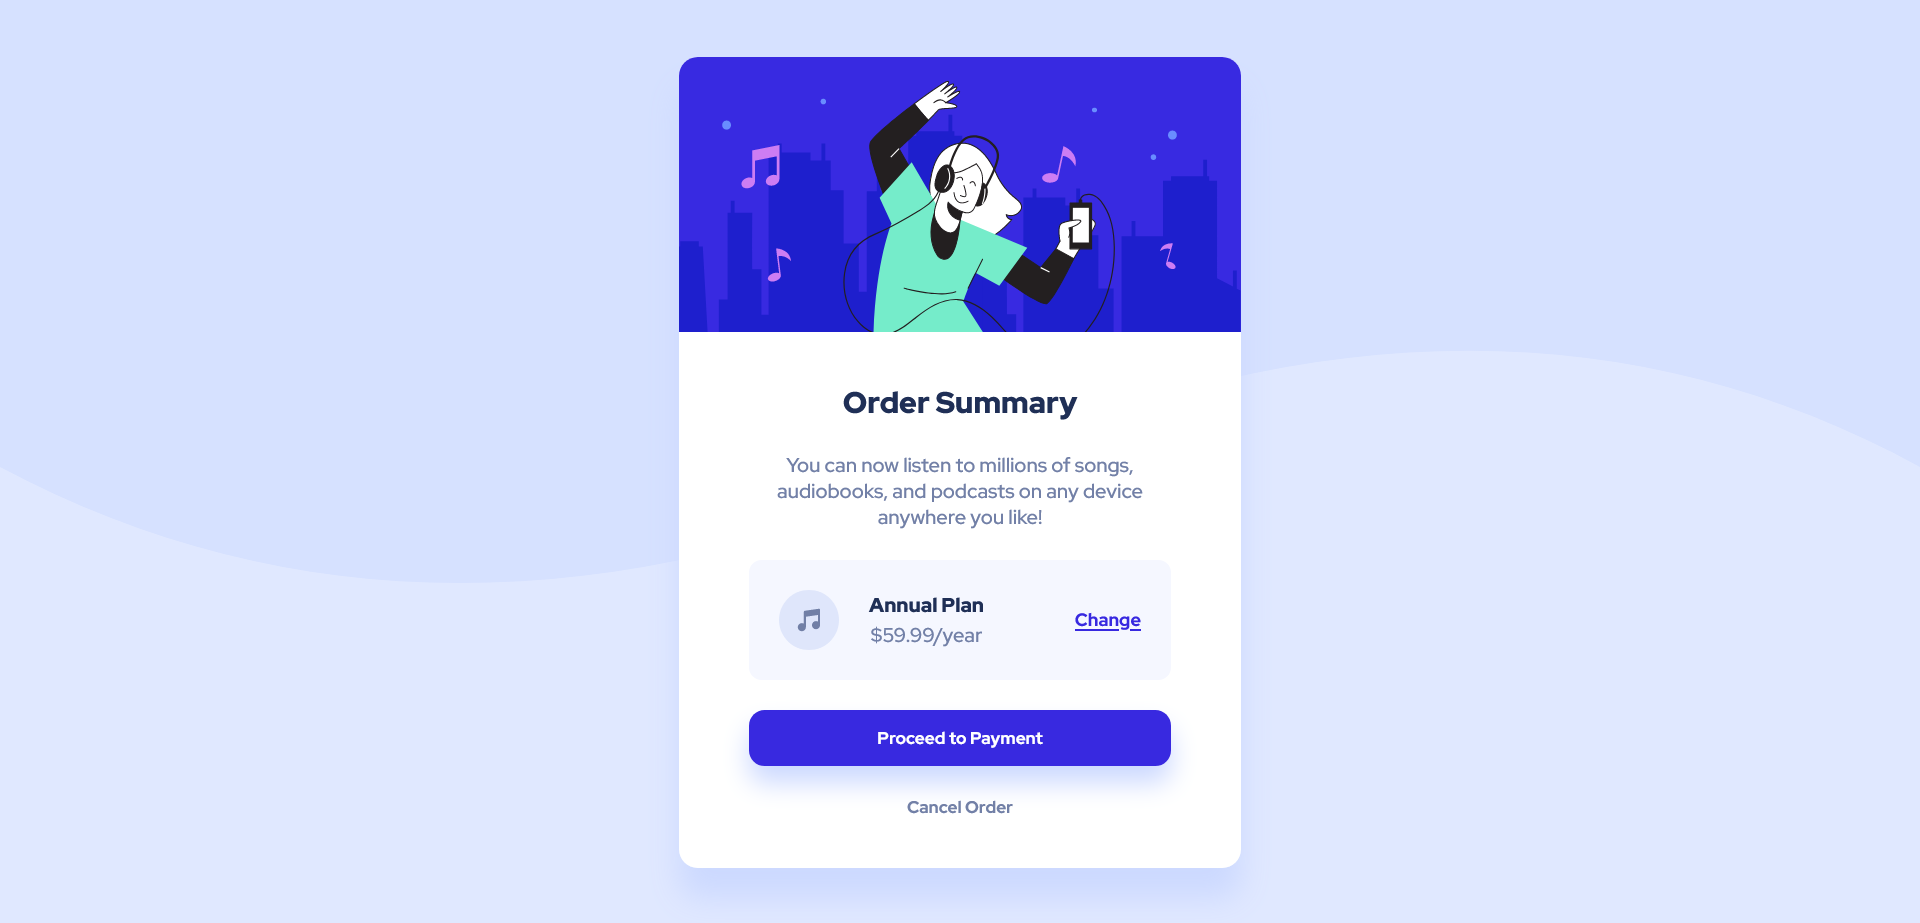
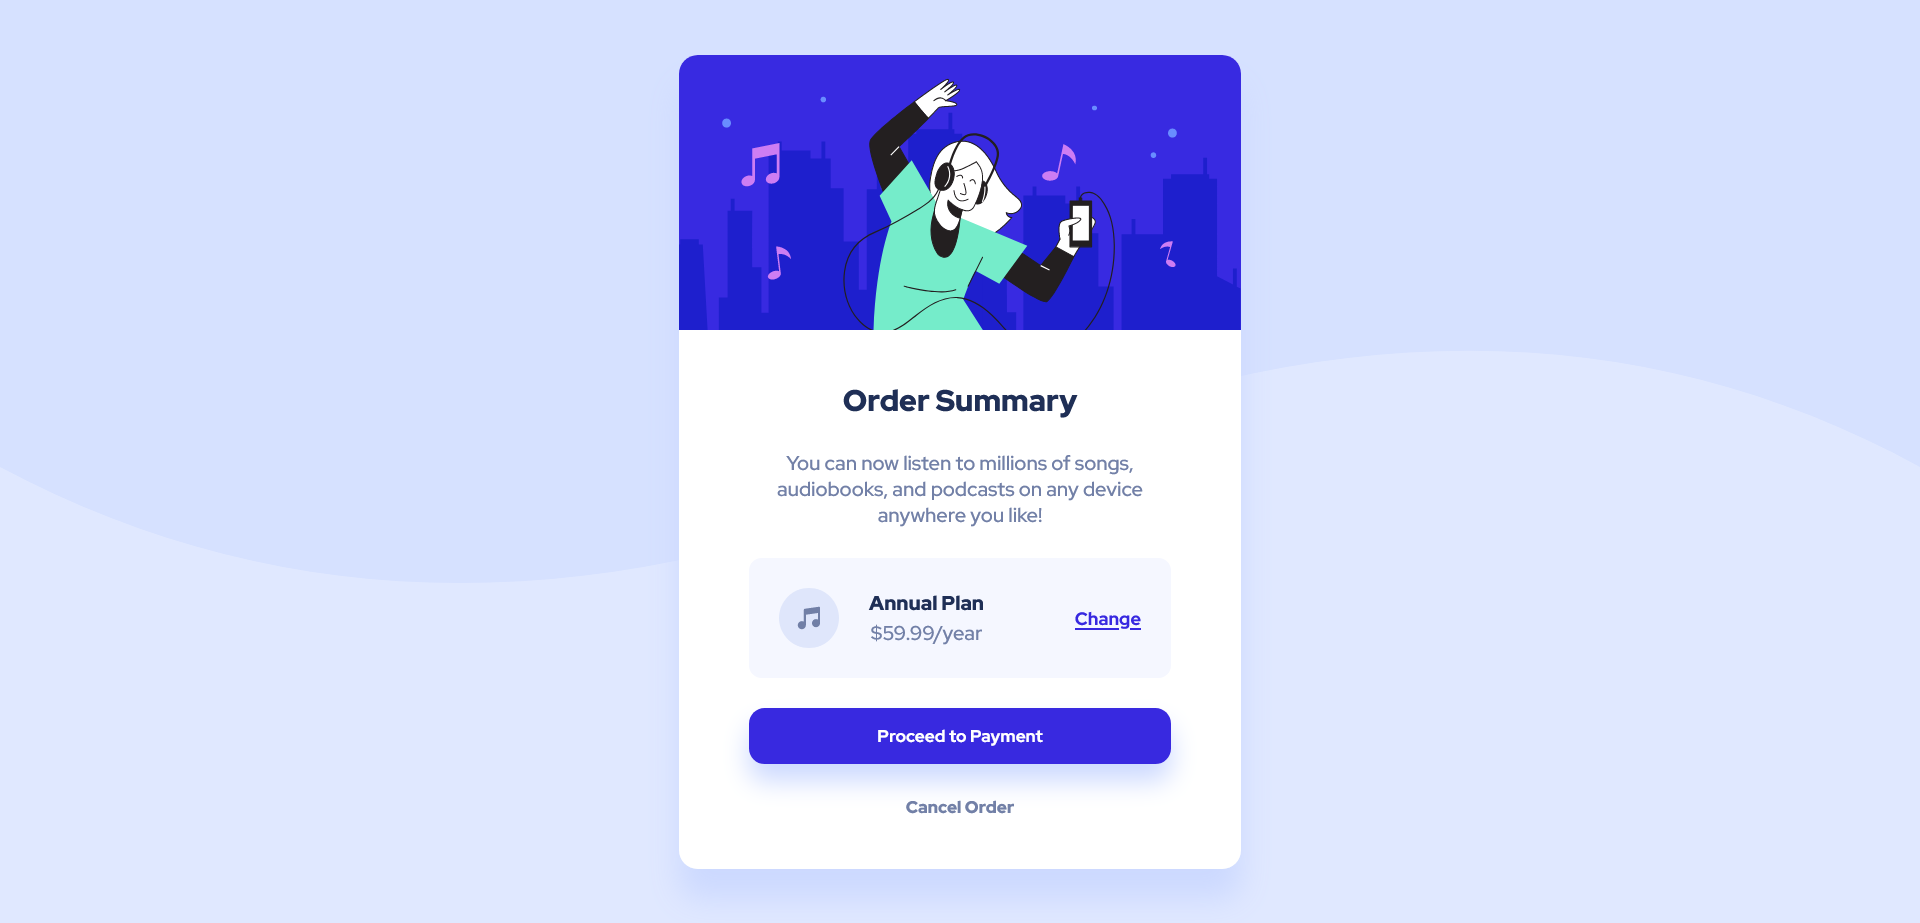
Fix accessibility bugs and implement (rather poorly) HTML best practices

diff --git a/index.html b/index.html
@@ -38,7 +38,7 @@
   Cancel Order -->
 
     <main class="summary-card">
-      <img class="card-image" src="./images/illustration-hero.svg" />
+      <img class="card-image" src="./images/illustration-hero.svg" alt="drawing of a woman dancing in a city" />
 
       <div class="lower-part">
         <h1 class="summary-heading">Order Summary</h1>
@@ -48,10 +48,10 @@
         </p>
         <div class="option">
           <div class="left-cluster">
-            <img src="./images/icon-music.svg" />
+            <img src="./images/icon-music.svg" alt="Music note icon"/>
           
             <div >
-            <h4 class="option-heading">Annual Plan</h3>
+            <h2 class="option-heading">Annual Plan</h3>
             <p class="option-pricing">$59.99/year</p>
           </div>
           </div>
@@ -61,15 +61,18 @@
         </div>
         <div class="buttons">
           <button class="primary-button">
-            <h4>
+            
               Proceed to Payment
-            </h4>
+            
           </button>
-            <div class="secondary-button">
-              <h4>
-                Cancel Order
-              </h4>
-            </div>
+            
+              <button class="secondary-button">
+                
+                  Cancel Order
+                
+              </button>
+              
+          
         </div>
         
       </div>

diff --git a/styles/styles.css b/styles/styles.css
@@ -28,7 +28,8 @@ body {
 p,
 h4,
 a,
-h1 {
+h1,
+h2 {
   margin: 0;
 }
 
@@ -96,6 +97,7 @@ a:active {
 }
 
 .option-heading {
+  font-size: 1em;
   font-weight: 900;
   color: var(--dark-blue);
 }
@@ -124,7 +126,7 @@ a:active {
   border: none;
   border-radius: 12.5px;
   font-size: 0.85em;
-  font-weight: 900;
+  font-weight: 700;
   box-shadow: 0 1em 1.5em hsl(225, 100%, 90%);
 }
 
@@ -134,6 +136,10 @@ a:active {
 }
 
 .secondary-button {
+  background-color: transparent;
+  border: none;
+  outline: none;
+
   color: var(--desaturated-blue);
   font-size: 0.85em;
   width: fit-content;
